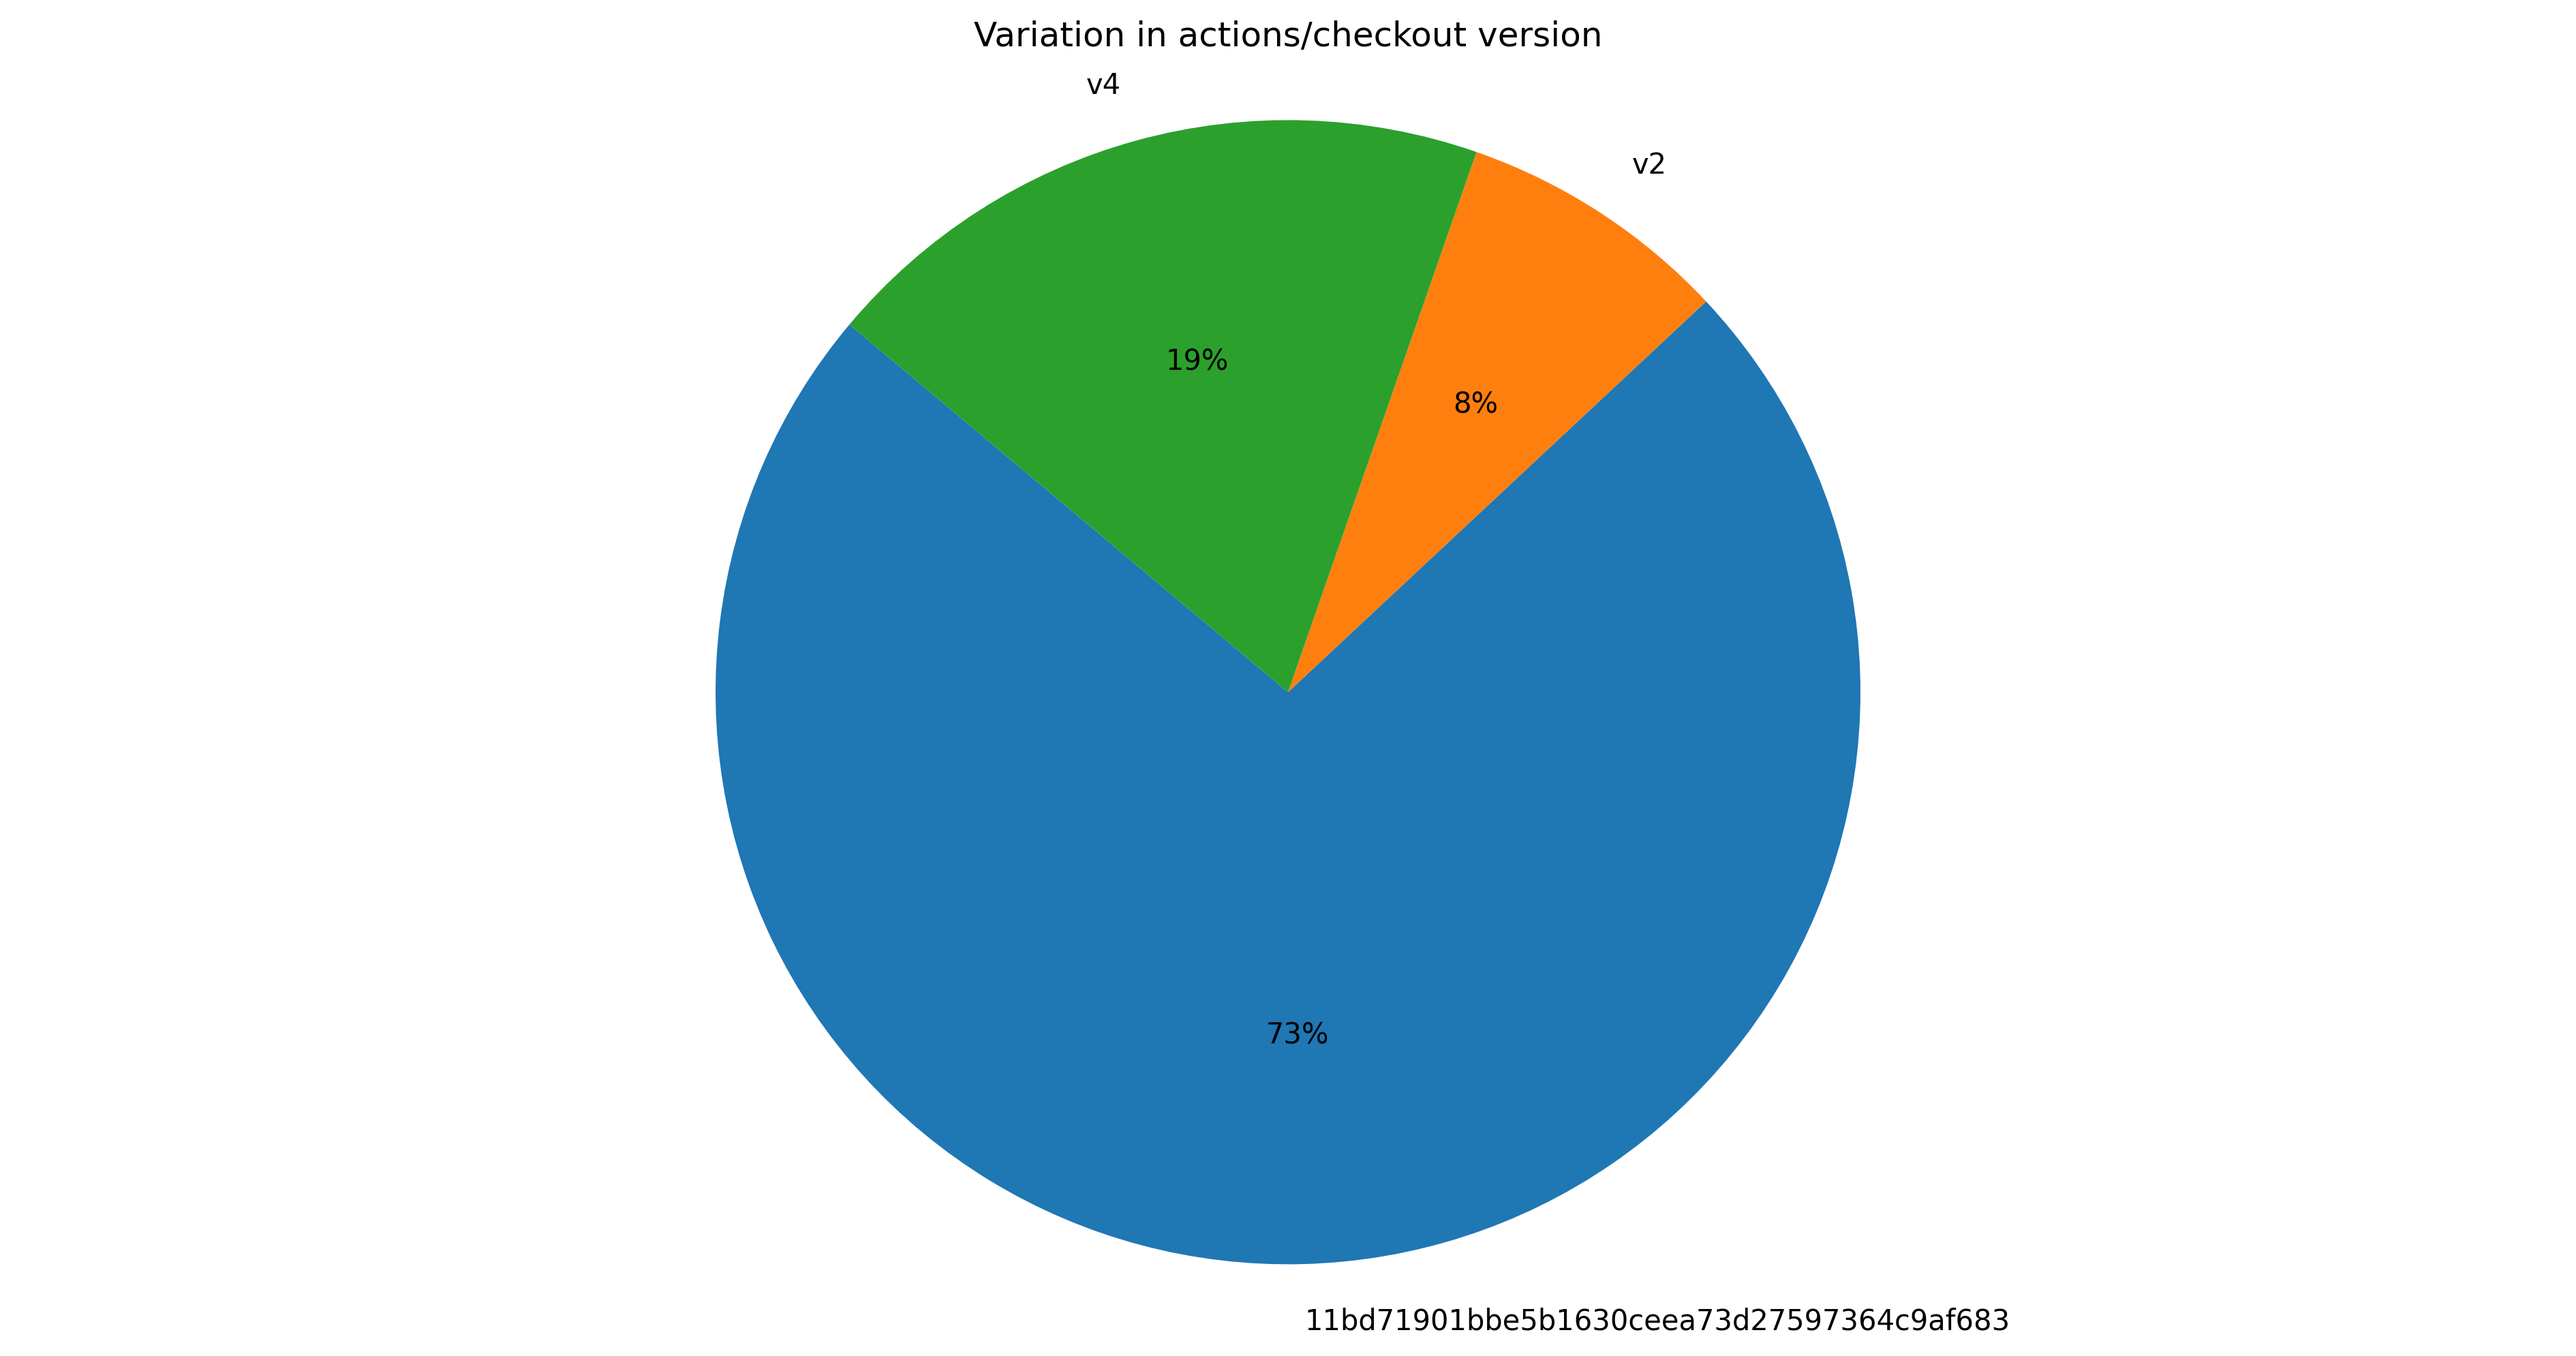
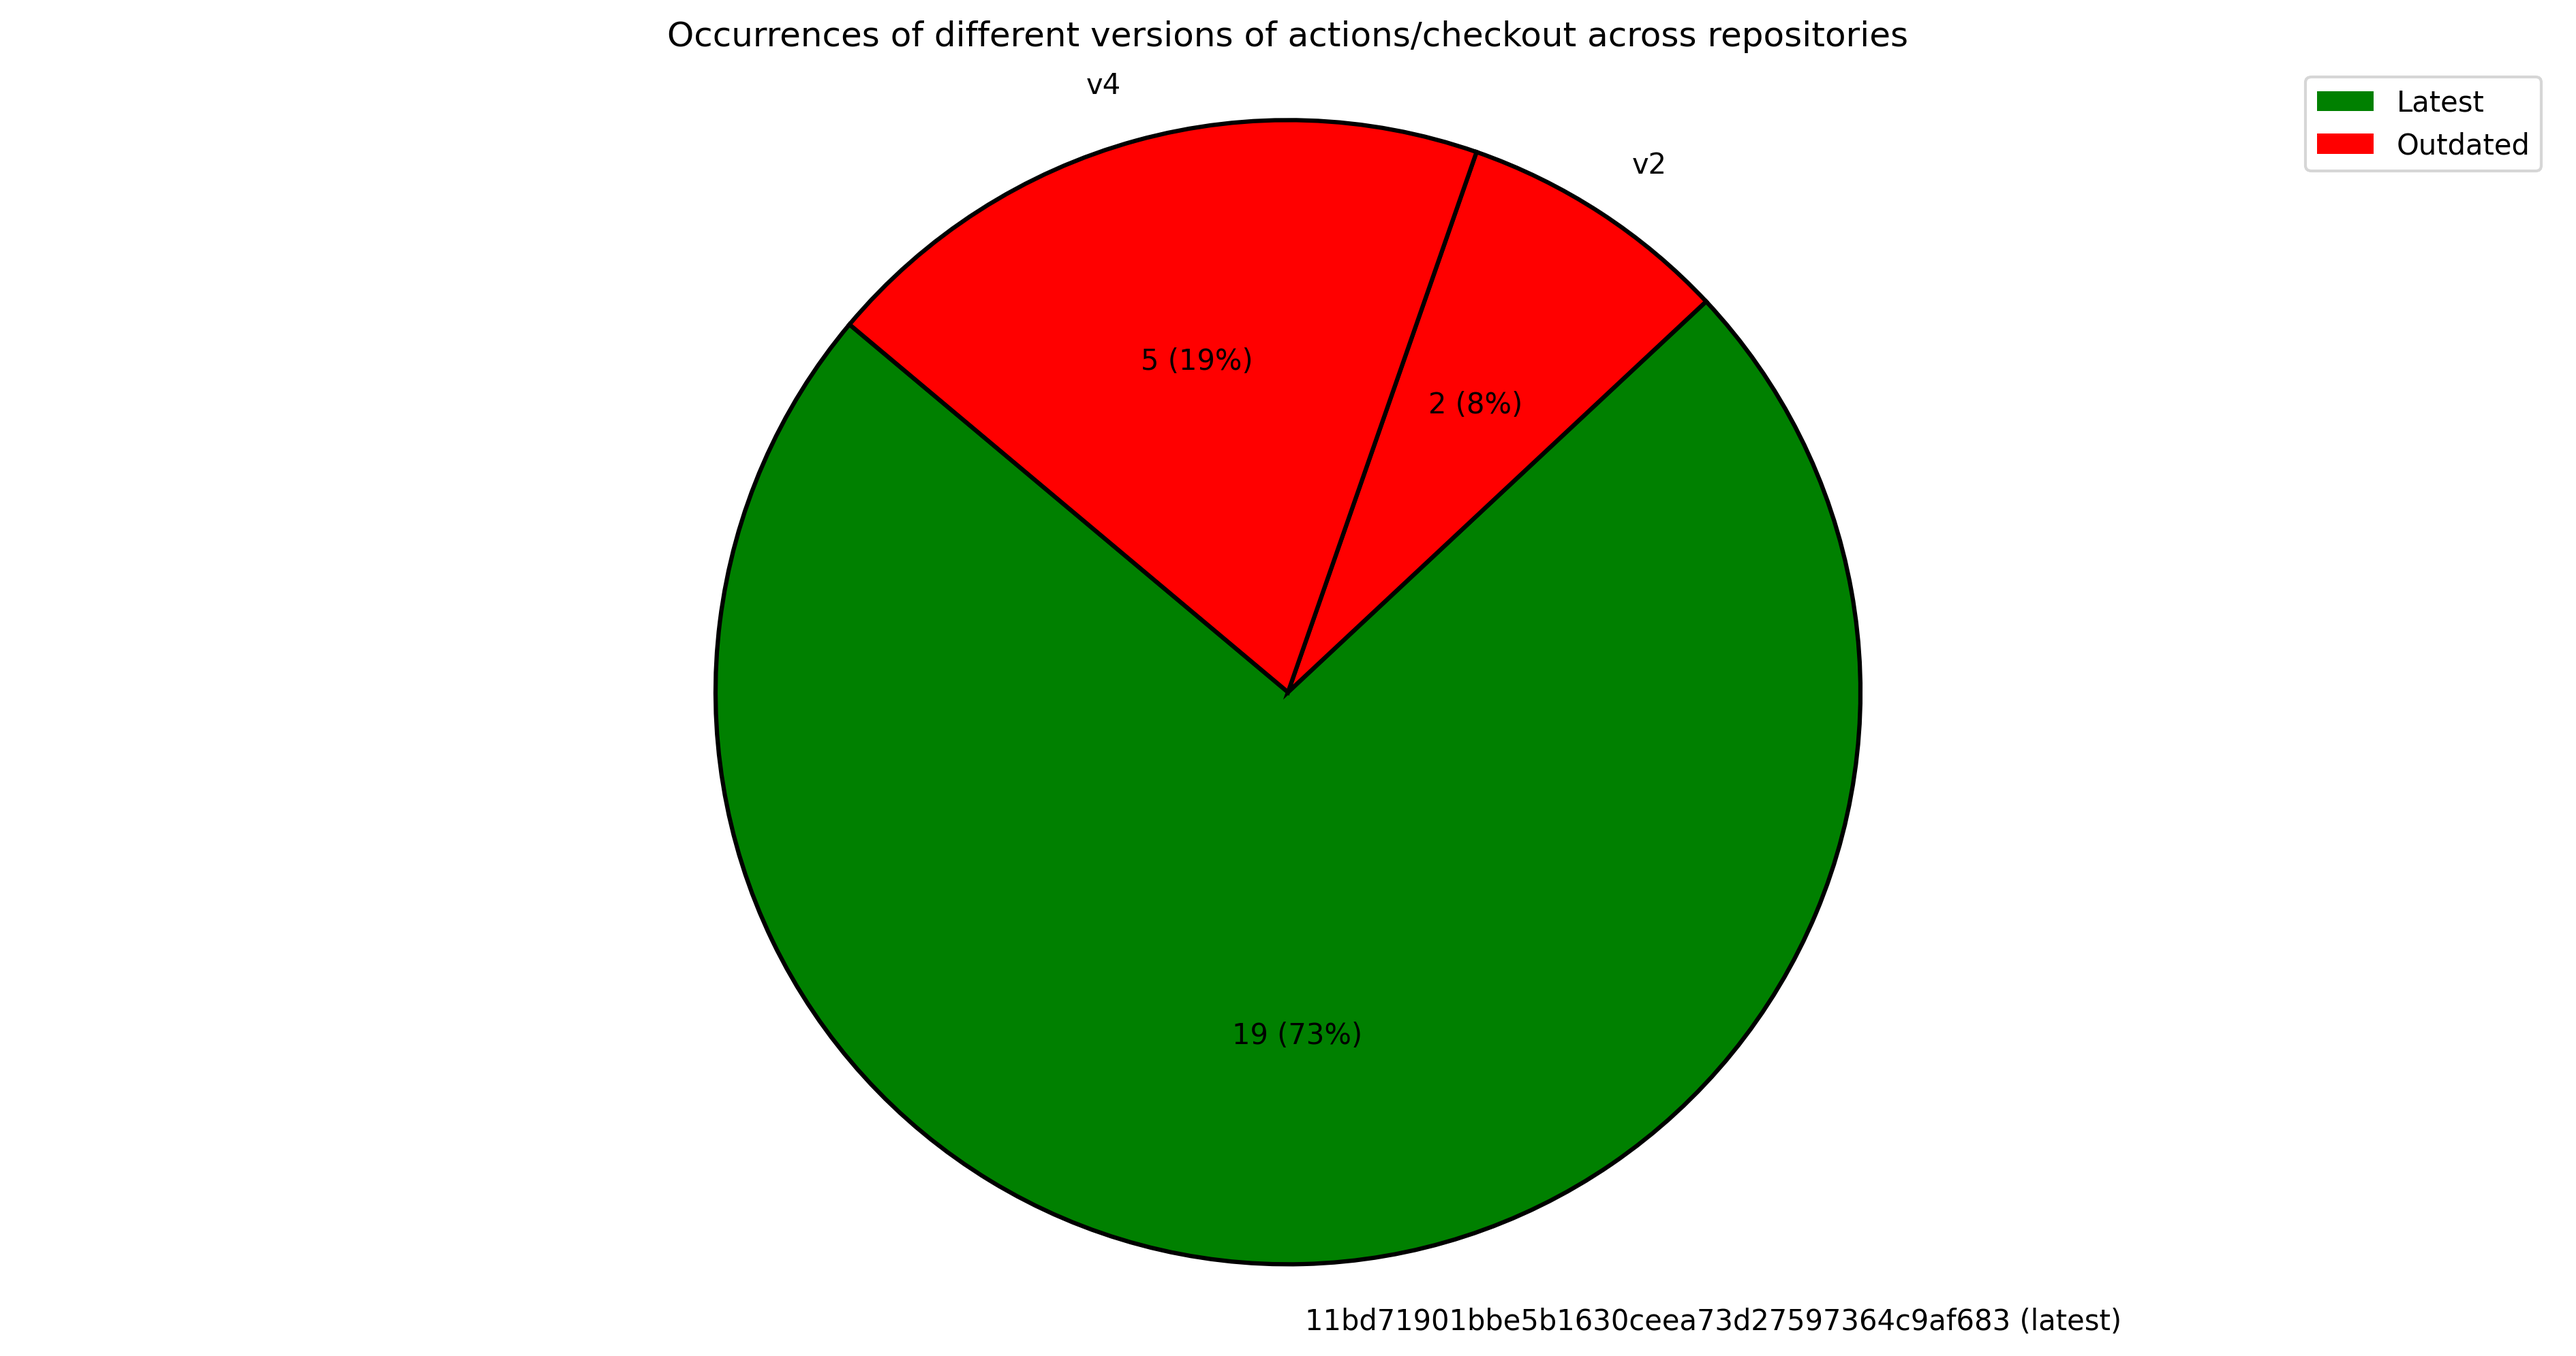
add latest dimension to pie charts

diff --git a/functions/graph.py b/functions/graph.py
@@ -1,12 +1,16 @@
 import pandasql as ps
 import seaborn as sns
 import matplotlib.pyplot as plt
+from matplotlib.patches import Patch
 
 from data.graph_config import GraphConfig
 
 def plot_barchart(query: str, config: GraphConfig) -> None:
     try:
         table = ps.sqldf(query, {'df': config.source})
+
+        print("Graph table:")
+        print(table)
 
         plt.figure(figsize=(16, 8))
         sns.set_theme(style="whitegrid")
@@ -34,16 +38,32 @@ def plot_piechart(query: str, config: GraphConfig) -> None:
     try:
         table = ps.sqldf(query, {'df': config.source})
 
+        print("Graph table:")
+        print(table)
+
         plt.figure(figsize=(16, 8))
         plt.pie(
             table[config.y],
-            labels=table[config.x],
-            autopct='%1.0f%%',
-            startangle=140
+            labels=[
+                f"{version} (latest)" if latest == 1 else version
+                for version, latest in zip(table['version'], table['latest'])
+            ],
+            startangle=140,
+            colors=['red' if value == 0 else 'green' for value in table[config.color_separation_variable]] if config.color_separation_variable else None,
+            wedgeprops={'edgecolor': 'black', 'linewidth': 1.5} if table.shape[0] > 1 else None,
+            autopct=lambda pct: f"{int(round(pct * sum(table[config.y].tolist()) / 100.0))} ({pct:.0f}%)"
         )
+
+        if config.color_separation_variable:
+            plt.legend(handles=[
+                Patch(facecolor='green', label='Latest'),
+                Patch(facecolor='red', label='Outdated')
+            ])
+
         plt.axis('equal')
         plt.title(config.title)
 
         plt.savefig(config.output_path, dpi=300, bbox_inches='tight')
+        plt.close()
     except Exception as e:
         print(f"Failed to create pie chart: {e}")

diff --git a/main.py b/main.py
@@ -34,16 +34,15 @@ if __name__ == "__main__":
     print("Database:")
     print(df)
 
-    actions_of_interest = ["actions/checkout", "ruby/setup-ruby", "hashicorp/setup-terraform"]
-
-    for action in actions_of_interest:
+    for action in github_service.latest_actions_table["name"].tolist():
         plot_piechart(
-            f"select version, count(*) as count from df where name = '{action}' group by name, version;", 
+            f"select latest, version, count(*) as count from df where name = '{action}' group by name, version;", 
             GraphConfig(
                 source = df,
                 x = "version",
                 y = "count",
-                title = f"Variation in {action} version",
-                output_path = f"graphs/{action.replace("/", "_").replace("-", "_")}_pie_chart.png"
+                title = f"Occurrences of different versions of {action} across repositories",
+                output_path = f"graphs/{action.replace("/", "_").replace("-", "_")}_pie_chart.png",
+                color_separation_variable="latest"
             )
         )

diff --git a/services/github.py b/services/github.py
@@ -27,12 +27,14 @@ class GitHubService():
     def check_action_version(self, name, version):
         try:
             if len(name.split("/")) > 2:
-                name = "/".join(name.split("/")[:2])
+                repo_name = "/".join(name.split("/")[:2])
+            else:
+                repo_name = name
 
             query_result = ps.sqldf(f"select * from df where name = '{name}'", {'df': self.latest_actions_table})
 
             if query_result.empty:
-                latest_tag = self.gh_client.get_repo(name).get_tags()[0]
+                latest_tag = self.gh_client.get_repo(repo_name).get_tags()[0]
 
                 self.latest_actions_table.loc[len(self.latest_actions_table)] = [name, latest_tag.name, latest_tag.commit.sha]
 
